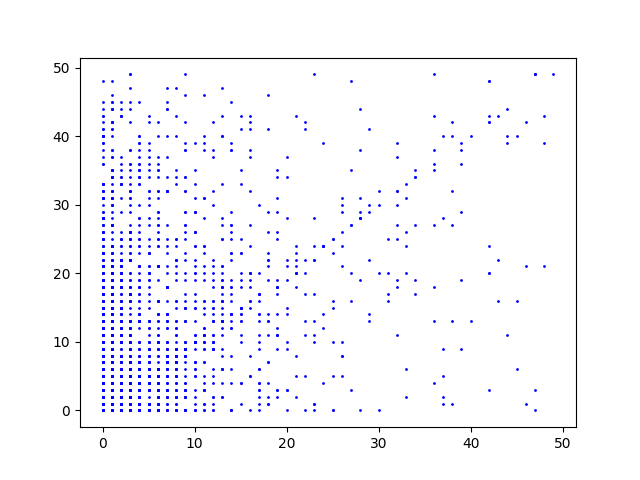
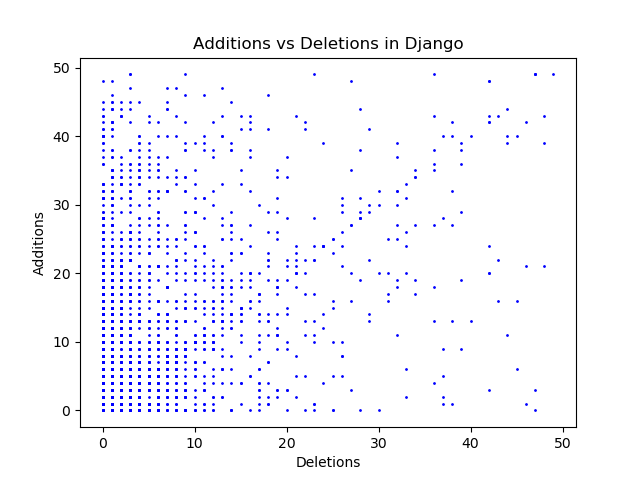
Added some bad graphs for breakdown of stuff but whatever for alladat

diff --git a/SE_Visualizer/SESite/siter/templates/breakdowns.html b/SE_Visualizer/SESite/siter/templates/breakdowns.html
@@ -1,0 +1,13 @@
+{% extends "base.html" %}
+    {% load static %}
+    {% block page_content %}
+<body>
+<h1> Graphical Breakdowns </h1>
+    <div class="col-md-4">
+        <img alt="Graph1" src='https://github.com/foesa/SoftwareEngineering/blob/master/SE_Visualizer/media/djangoScatter.png?raw=true'>
+    </div>
+    <div class="col-md-4">
+        <img alt="Graph1" src='https://github.com/foesa/SoftwareEngineering/blob/master/SE_Visualizer/media/flaskScatter.png?raw=true'>
+    </div>
+</body>
+    {% endblock %}

diff --git a/SE_Visualizer/SESite/templates/base.html b/SE_Visualizer/SESite/templates/base.html
@@ -12,6 +12,9 @@
             <li class="nav-item active">
               <a class="nav-link" href="{% url 'inputPage' %}">Home</a>
             </li>
+              <li class="nav-item active">
+              <a class="nav-link" href="{% url 'breakdowns' %}">Graphs</a>
+            </li>
           </ul>
         </div>
     </div>

diff --git a/SE_Visualizer/SESite/siter/management/commands/graphCreate.py b/SE_Visualizer/SESite/siter/management/commands/graphCreate.py
@@ -9,7 +9,7 @@ class Command(BaseCommand):
     help = 'Creates Images'
 
     def handle(self, *args, **options):
-        commitList = Commit.objects.filter(repoName='Django')
+        commitList = Commit.objects.filter(repoName='flask')
         dateList = []
         totalList = []
         for i in commitList:
@@ -19,5 +19,8 @@ class Command(BaseCommand):
         commitList2 = Commit.objects.filter(repoName='flask')
         print(dateList)
         print(totalList)
-        scatter1 = plt.scatter(dateList, totalList, s =1, c = 'blue')
-        scatter1.figure.savefig("djangoScatter.png")
+        plt.scatter(dateList, totalList, s =1, c = 'red')
+        plt.title('Additions vs Deletions in Flask')
+        plt.xlabel('Deletions')
+        plt.ylabel('Additions')
+        plt.savefig("flaskScatter.png")

diff --git a/SE_Visualizer/SESite/siter/urls.py b/SE_Visualizer/SESite/siter/urls.py
@@ -4,4 +4,5 @@ from . import views
 urlpatterns = [
     path("", views.inputPage, name="inputPage"),
     path("search/", views.userDetails, name="userDetails"),
+    path("breakdowns/",views.breakdowns, name="breakdowns"),
 ]

diff --git a/SE_Visualizer/SESite/siter/views.py b/SE_Visualizer/SESite/siter/views.py
@@ -19,3 +19,6 @@ def userDetails(request):
         'mainUser' :curUser
     }
     return render(request,"userDetails.html",context)
+
+def breakdowns(request):
+    return render(request,"breakdowns.html")

diff --git a/README.md b/README.md
@@ -17,5 +17,5 @@ Repository for all CS3012 related assignments and projects.
 -  Link to report [here](https://github.com/foesa/SoftwareEngineering/blob/master/Software%20Engineering%20Essay%20-%20Metrics.docx)
 
 ## Assignment #5: Github Access
-- For this I created a seperate readme as it is quite long.
+- For this I created a separate readme as it is quite long.
 - Found [here](https://github.com/foesa/SoftwareEngineering/blob/master/SE_Visualizer/VisualizerREADME.md)
